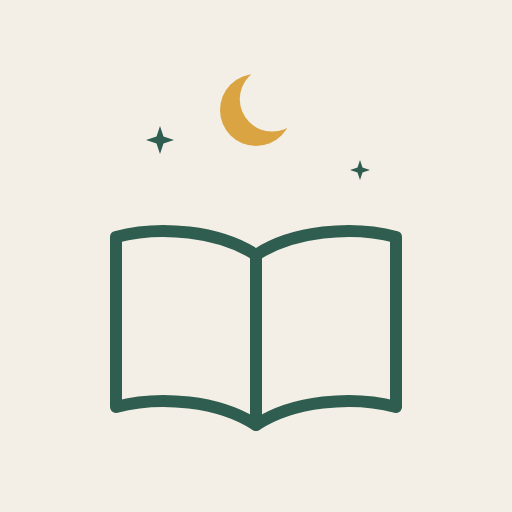
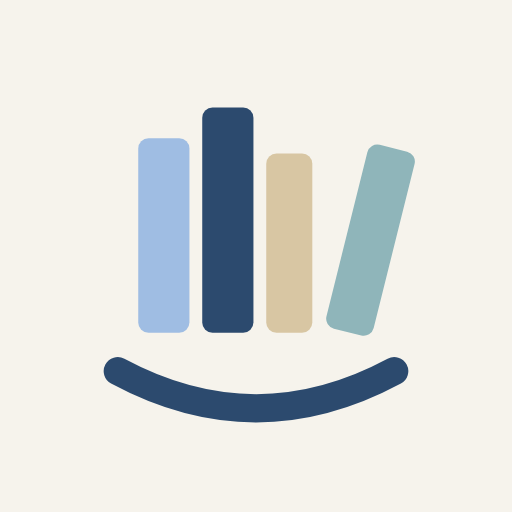
Назва Shelfie і новий значок «Пастель» з перемикачем на «Класику» в «Я»
Claude-Session: https://claude.ai/code/session_01Q1baFUwT4DY8S2iDYr2k29

Changed region(s): [[0.1875, 0.125, 0.8125, 0.8438]]

diff --git a/index.html b/index.html
@@ -3,18 +3,19 @@
 <head>
 <meta charset="utf-8">
 <meta name="viewport" content="width=device-width, initial-scale=1, viewport-fit=cover">
-<title>Моя бібліотека</title>
+<title>Shelfie</title>
 <meta name="robots" content="noindex, nofollow">
-<link rel="icon" type="image/png" href="icons/icon-192.png?v=2">
+<link rel="icon" type="image/png" id="lbFav" href="icons/icon-192.png?v=3">
 <script src="config.js"></script>
-<link rel="manifest" href="manifest.webmanifest">
+<link rel="manifest" id="lbMan" href="manifest.webmanifest">
 <meta name="theme-color" content="#2c4a6e">
 <link rel="preconnect" href="https://fonts.googleapis.com"><link rel="preconnect" href="https://fonts.gstatic.com" crossorigin>
 <link rel="stylesheet" href="https://fonts.googleapis.com/css2?family=Literata:opsz,wght@7..72,500;7..72,600&display=swap">
-<link rel="apple-touch-icon" href="icons/apple-touch-icon.png?v=2">
+<link rel="apple-touch-icon" id="lbTouch" href="icons/apple-touch-icon.png?v=3">
+<script>/* значок додатку: «Пастель» (звичайний) або «Класика», вибирається в «Я» */try{if(localStorage.getItem('lb.icon')==='classic'){document.getElementById('lbFav').href='icons/classic/icon-192.png?v=3';document.getElementById('lbTouch').href='icons/classic/apple-touch-icon.png?v=3';document.getElementById('lbMan').href='manifest-classic.webmanifest';}}catch(e){}</script>
 <meta name="apple-mobile-web-app-capable" content="yes">
 <meta name="mobile-web-app-capable" content="yes">
-<meta name="apple-mobile-web-app-title" content="Бібліотека">
+<meta name="apple-mobile-web-app-title" content="Shelfie">
 <meta name="apple-mobile-web-app-status-bar-style" content="default">
 <script>if ('serviceWorker' in navigator && location.protocol === 'https:' && !/script\.google/.test(location.host)) window.addEventListener('load', function () { navigator.serviceWorker.register('sw.js').catch(function () {}); });</script>
 <style>
@@ -463,7 +464,7 @@ details.morein{margin-top:10px}details.morein summary{font-weight:500;color:var(
 .tl .ln{position:relative;height:36px;margin:4px 0;cursor:pointer}.tl .ln .lt{position:relative;z-index:1;font-size:12px;line-height:16px;white-space:nowrap;overflow:hidden;text-overflow:ellipsis;background:var(--card);display:inline-block;max-width:100%;padding-right:4px}.tl .ln .lt span{color:var(--muted)}.tl .ln i{position:absolute;top:18px;height:14px;border-radius:7px;color:#2a2622;font-size:12px;font-style:normal;display:flex;align-items:center;padding:0 8px;white-space:nowrap;overflow:hidden;cursor:pointer;min-width:18px}
 .tl .now{position:absolute;top:16px;bottom:0;width:2px;background:var(--accent)}
 .seg3{display:flex;background:var(--card);border-radius:14px;padding:4px;gap:4px;margin-bottom:12px;box-shadow:0 1px 3px rgba(0,0,0,.05)}
-.mtheme{cursor:default}.seg3.mini{margin:0;padding:3px;gap:2px;background:var(--bg);box-shadow:none;border-radius:12px}.seg3.mini button{padding:0 12px;min-height:40px;font-size:15px}
+.mtheme{cursor:default}.mtheme .aic{border-radius:5px;flex:none}.mic{flex-wrap:wrap}.mic .seg3 button{display:inline-flex;align-items:center;gap:6px;white-space:nowrap}.mic .mhint{flex-basis:100%;color:var(--muted);font-size:13px}.seg3.mini{margin:0;padding:3px;gap:2px;background:var(--bg);box-shadow:none;border-radius:12px}.seg3.mini button{padding:0 12px;min-height:40px;font-size:15px}
 .seg3 button{flex:1;border:0;background:none;color:var(--ink);font:inherit;font-weight:600;padding:9px;border-radius:10px;cursor:pointer}.seg3 button.on{background:var(--accent-fill);color:#fff}
 .pick.scroll button{flex:none}
 .tbtn{flex:none;white-space:nowrap;border:1px solid var(--line);background:var(--card);color:var(--ink);border-radius:12px;min-width:44px;min-height:40px;padding:0 12px;font:inherit;cursor:pointer;position:relative}.tbtn.on{border-color:var(--accent);color:var(--accent)}.tbtn .dot{position:absolute;top:6px;right:6px;width:7px;height:7px;border-radius:50%;background:var(--accent)}
@@ -591,6 +592,13 @@ a.btn{text-decoration:none;color:inherit;display:inline-flex;align-items:center}
   function setTheme(v) {
     try { if (v) localStorage.setItem('lb.theme', v); else localStorage.removeItem('lb.theme'); } catch (e) {}
     if (v) document.documentElement.setAttribute('data-theme', v); else document.documentElement.removeAttribute('data-theme');
+  }
+  function setAppIcon(v) {
+    try { if (v === 'classic') localStorage.setItem('lb.icon', v); else localStorage.removeItem('lb.icon'); } catch (e) {}
+    var d = v === 'classic' ? 'icons/classic/' : 'icons/';
+    var f = document.getElementById('lbFav'), t = document.getElementById('lbTouch'), m = document.getElementById('lbMan');
+    if (f) f.href = d + 'icon-192.png?v=3'; if (t) t.href = d + 'apple-touch-icon.png?v=3';
+    if (m) m.href = v === 'classic' ? 'manifest-classic.webmanifest' : 'manifest.webmanifest';
   }
   try { var th0 = localStorage.getItem('lb.theme'); if (th0) document.documentElement.setAttribute('data-theme', th0); } catch (e) {}
   var view = { tab: 'home', q: '', f: {}, sort: 'author', limit: 60, wishStatus: '', wishMode: WIDE ? (function () { try { return localStorage.getItem('lb.wmode') || 'board'; } catch (e) { return 'board'; } })() : 'list', seriesMode: 'open', wq: '', bookMode: WIDE ? 'covers' : 'list', calM: '' };
@@ -3894,7 +3902,9 @@ a.btn{text-decoration:none;color:inherit;display:inline-flex;align-items:center}
       row('data-list="lent"', 'Позичені', lent.length ? lent.length + ' ' + bookWord(lent.length) + ' у людей' : 'нікому не позичено', ['🤝', 'g4']) +
       row('data-list="sold"', 'Продані', D.sold.length + ' ' + bookWord(D.sold.length), ['🏷', 'g6']) +
       '</div>';
-    h += '<div class="mlist"><div class="mrow mtheme"><span class="g"><b>Тема</b></span><span class="seg3 mini">' + [['', 'Авто'], ['light', 'Світла'], ['dark', 'Темна']].map(function (x) { return '<button data-action="theme" data-v="' + x[0] + '" class="' + (cur === x[0] ? 'on' : '') + '" aria-pressed="' + (cur === x[0]) + '">' + x[1] + '</button>'; }).join('') + '</span></div></div>';
+    h += '<div class="mlist"><div class="mrow mtheme"><span class="g"><b>Тема</b></span><span class="seg3 mini">' + [['', 'Авто'], ['light', 'Світла'], ['dark', 'Темна']].map(function (x) { return '<button data-action="theme" data-v="' + x[0] + '" class="' + (cur === x[0] ? 'on' : '') + '" aria-pressed="' + (cur === x[0]) + '">' + x[1] + '</button>'; }).join('') + '</span></div>';
+    var ic = (function () { try { return localStorage.getItem('lb.icon') || ''; } catch (e) { return ''; } })();
+    h += '<div class="mrow mtheme mic"><span class="g"><b>Значок</b></span><span class="seg3 mini">' + [['', 'Пастель', 'icons/icon.svg'], ['classic', 'Класика', 'icons/classic/icon.svg']].map(function (x) { return '<button data-action="appicon" data-v="' + x[0] + '" class="' + (ic === x[0] ? 'on' : '') + '" aria-pressed="' + (ic === x[0]) + '"><img src="' + x[2] + '" alt="" width="20" height="20" class="aic"> ' + x[1] + '</button>'; }).join('') + '</span><small class="mhint">На екрані «Додому» зміниться, коли знову додаси туди сайт.</small></div></div>';
     return h;
   };
 
@@ -4624,6 +4634,7 @@ a.btn{text-decoration:none;color:inherit;display:inline-flex;align-items:center}
     if (a === 'plus-shot') { closeModal(); openOrder('wish'); document.getElementById('orderfile').click(); return; }
     if (a === 'hseg') { view.hseg = act.getAttribute('data-v'); try { localStorage.setItem('lb.hseg', view.hseg); } catch (e) {} return render(); }
     if (a === 'theme') { setTheme(act.getAttribute('data-v')); return render(); }
+    if (a === 'appicon') { setAppIcon(act.getAttribute('data-v')); return render(); }
     if (a === 'order-open') openOrder();
     if (a === 'news-hide' || a === 'news-apply') {
       var nid = act.getAttribute('data-id'), nit = (D.news || []).filter(function (x) { return x.id === nid; })[0];

diff --git a/CLAUDE.md b/CLAUDE.md
@@ -89,6 +89,7 @@
 
 ## Інтерфейс (погоджено 15.11.2026)
 - Тексти на «ти», «Скриншот» (через «и»).
+- Назва додатку на телефоні й у вкладці — **Shelfie** (16.11.2026); сам інтерфейс українською. Значок: полиця з книжками, вигнута усмішкою. Звичайний «Пастель» (`icons/`, `manifest.webmanifest`), запасний «Класика» (`icons/classic/`, `manifest-classic.webmanifest`); перемикач «Значок» у «Я» (`lb.icon` у localStorage). Джерела значків — `icons/icon.svg`.
 - Стиль «Папір і зелень», зелена темна тема; кольори лише через змінні (`--accent-fill`, `--field`, `--shelf-ink`, `--plate`, `--star` тощо), без окремих `prefers-color-scheme` правил.
 - Без горизонтальних смуг, що гортаються вбік: фільтри й кнопки переносяться на новий рядок.
 - 📍 — лише місце чи полиця. На кнопках — тонкі лінійні значки, не емодзі (скрипт у кінці `index.html` замінює емодзі сам; фільтри 📍 Роттердам / 🏠 Київ лишаються).
